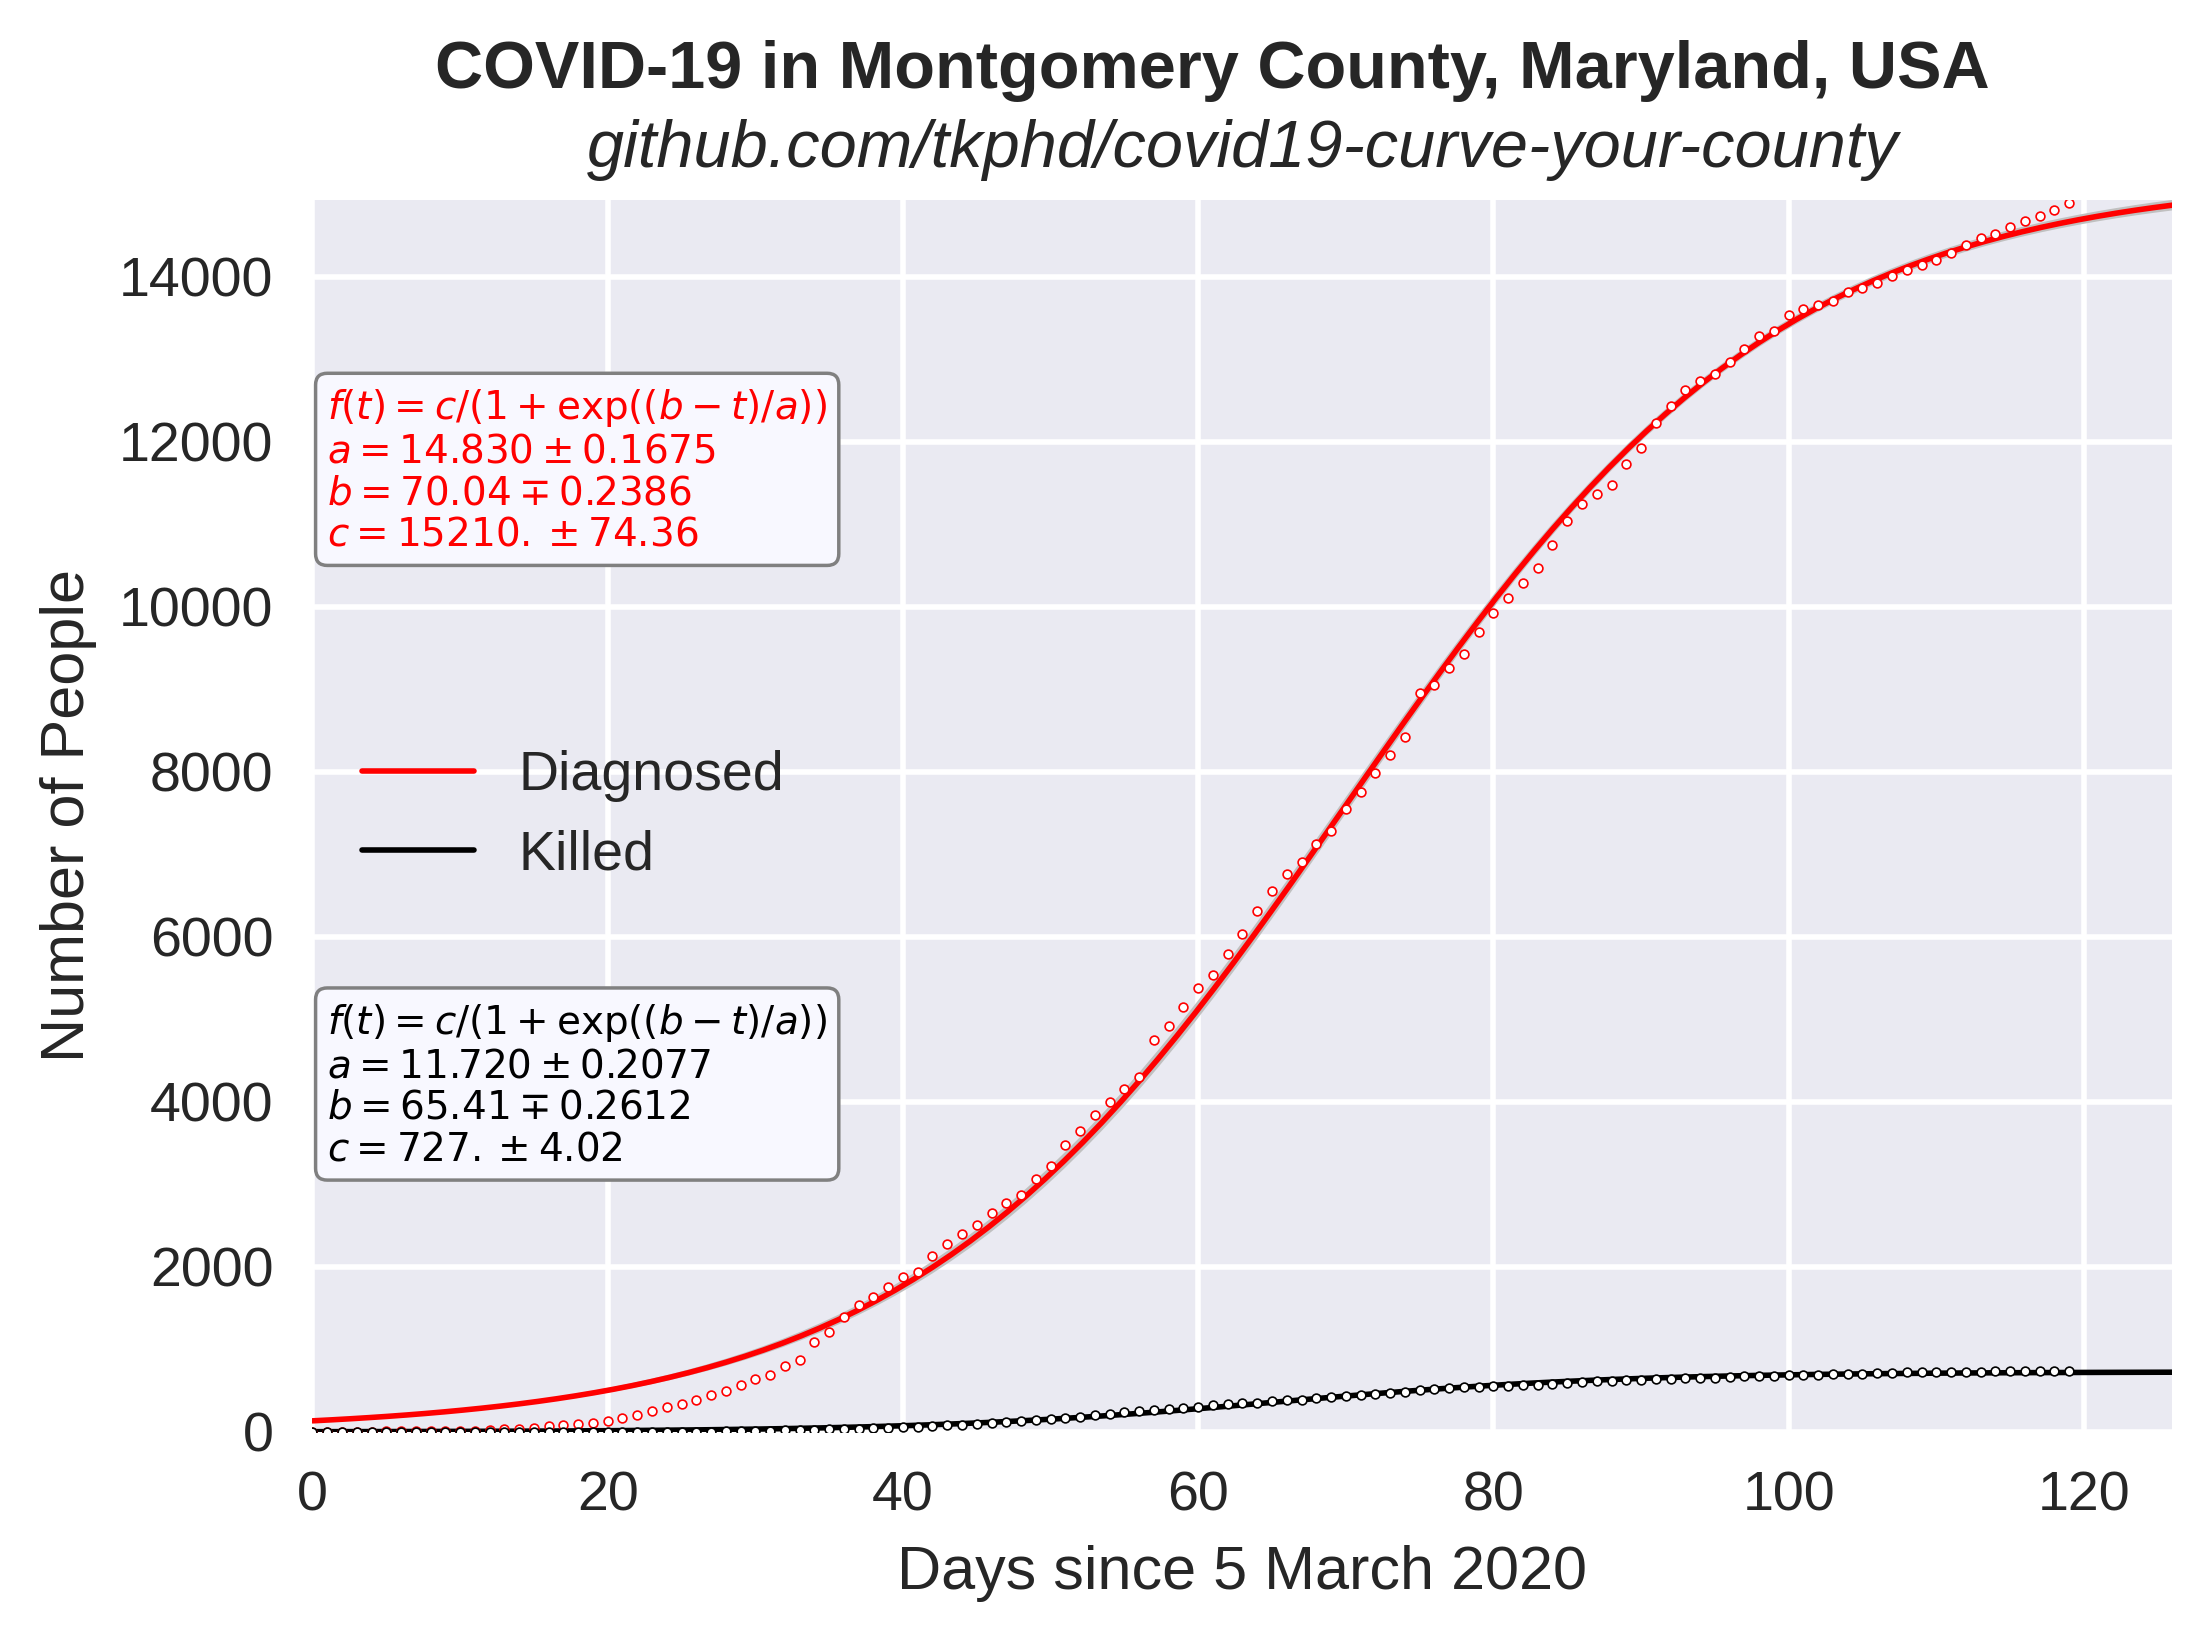
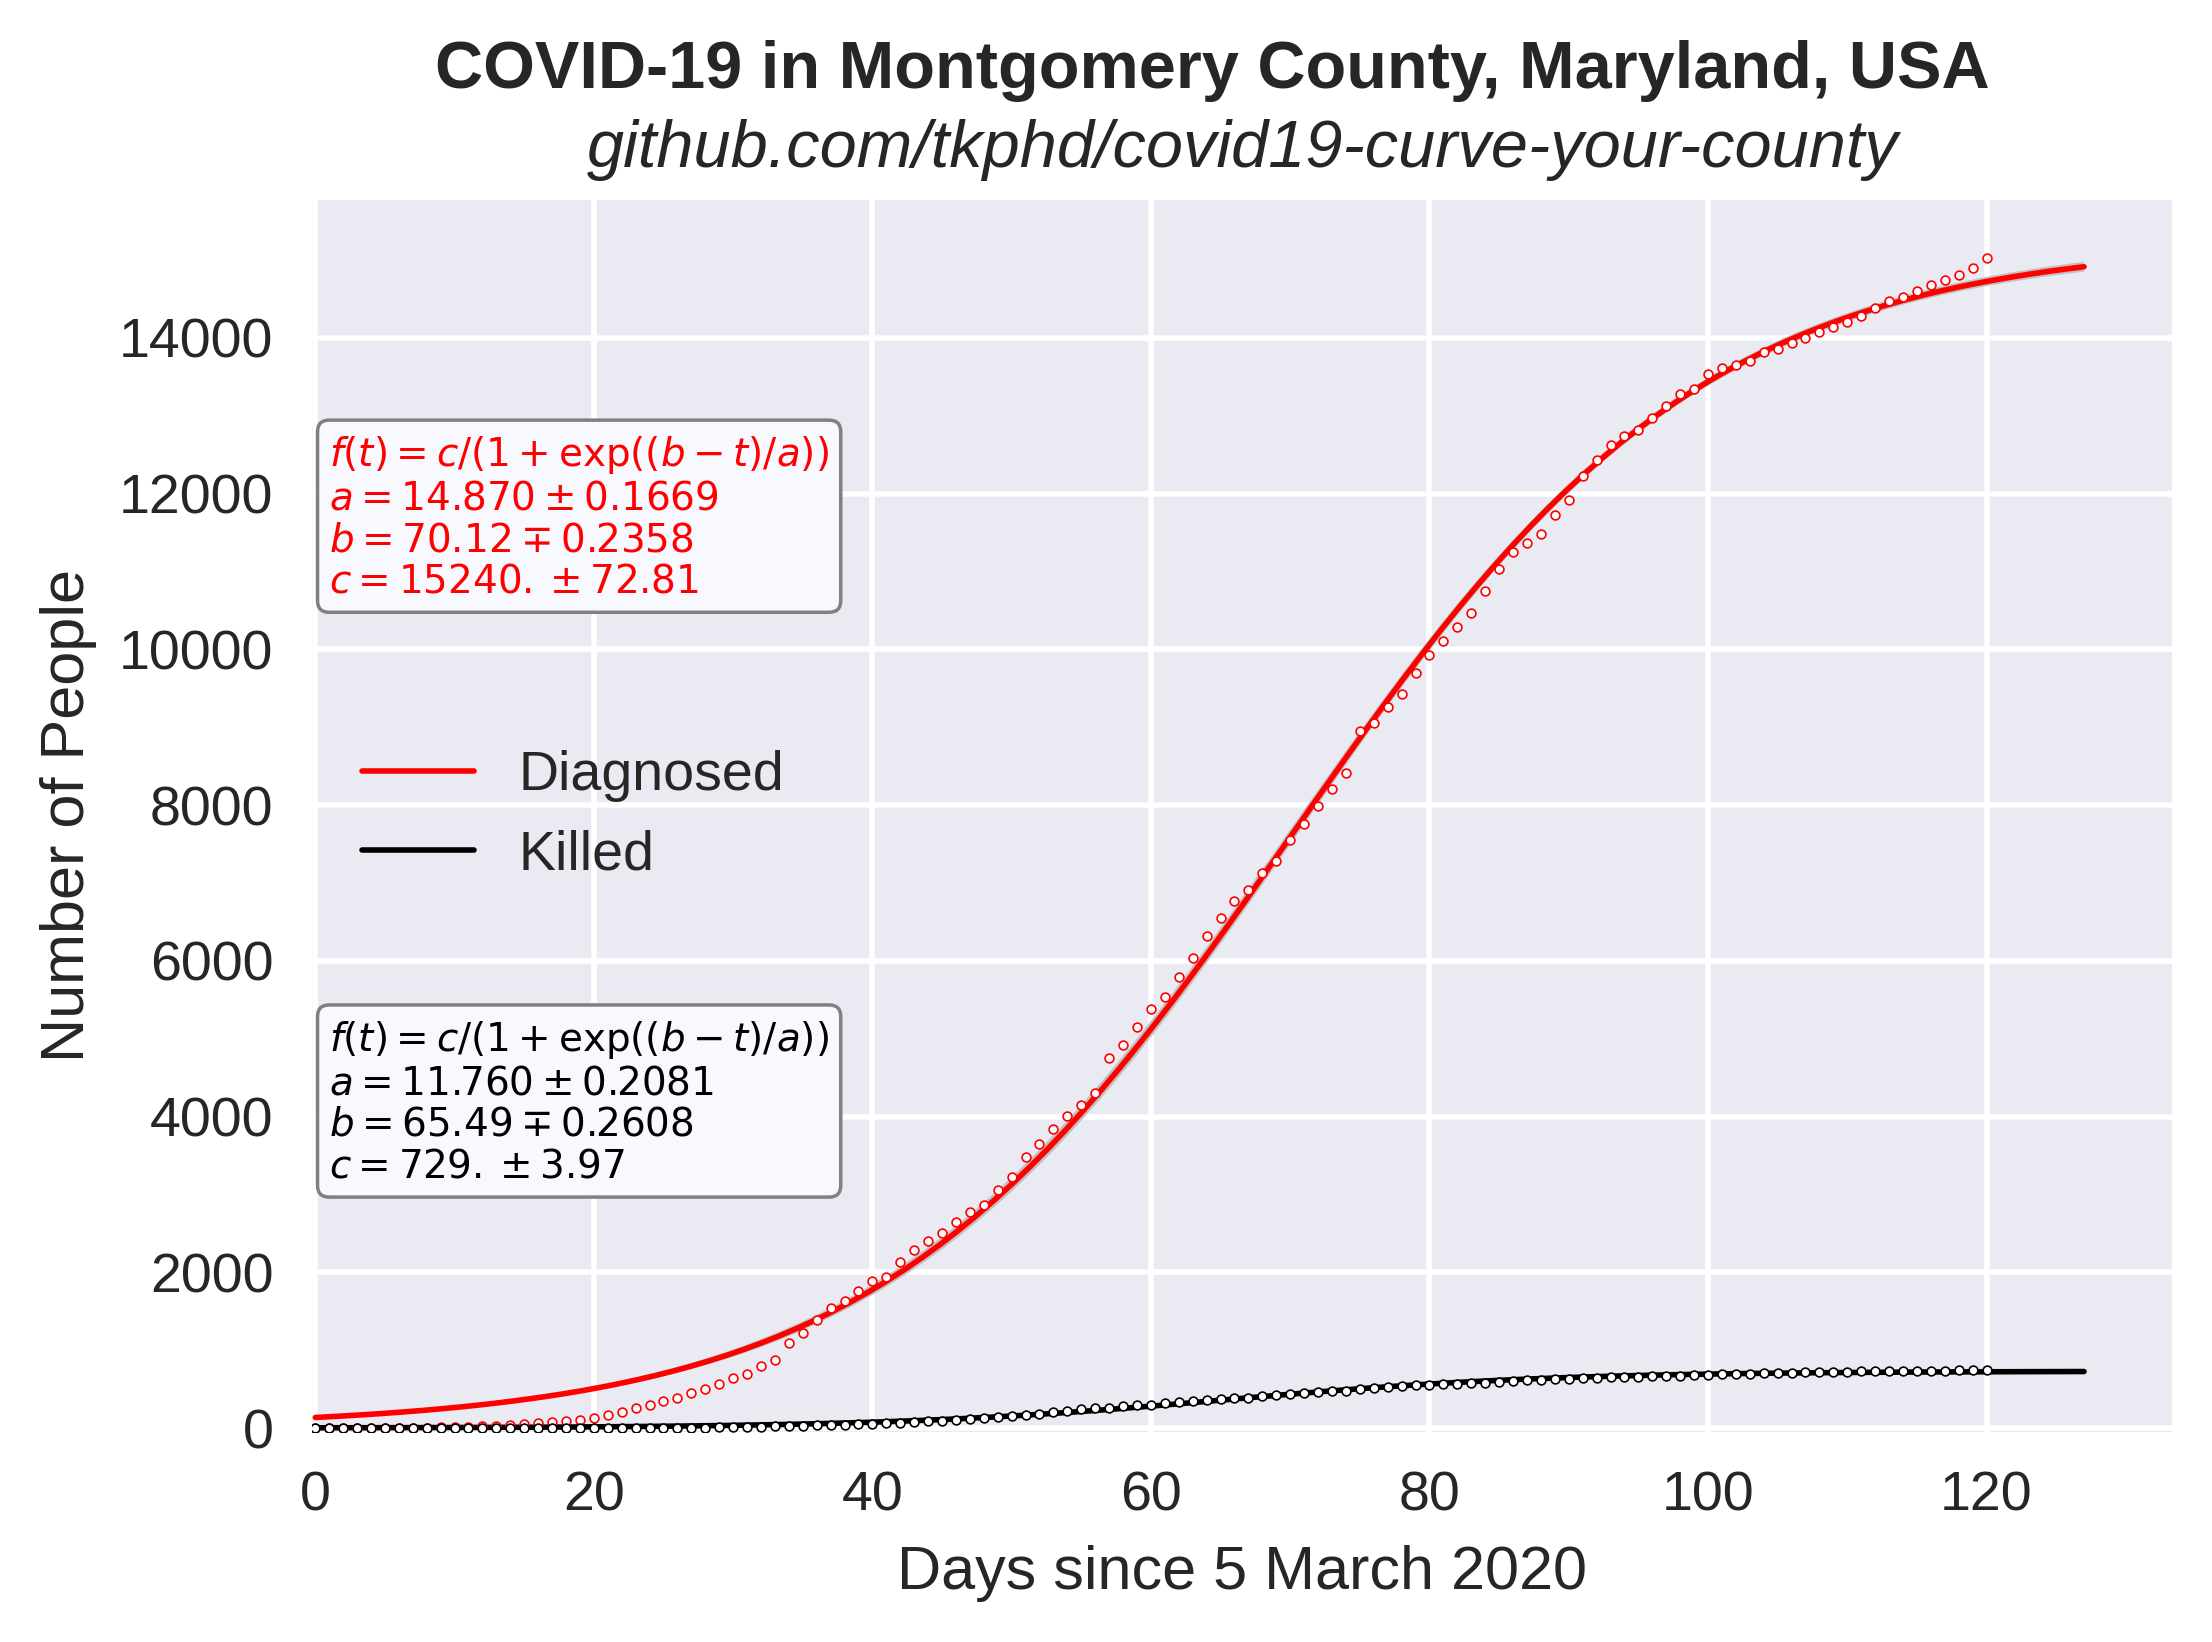
2020-07-03 update

diff --git a/exponential.py b/exponential.py
@@ -97,8 +97,6 @@ start = date(start.tm_year, start.tm_mon, start.tm_mday).toordinal()
 today = strptime(data["date"].iloc[-1], "%Y-%m-%d")
 today = date(today.tm_year, today.tm_mon, today.tm_mday).toordinal()
 
-t_max = 0
-y_max = 0
 y_off = 1 + 0.35  # offset for equation boxes
 
 for key in columns:
@@ -199,15 +197,13 @@ for key in columns:
         bbox=dict(boxstyle="round", ec="gray", fc="ghostwhite", linewidth=2.5 * dx),
     )
 
-    if t_hat[-1] > t_max:
-        t_max = t_hat[-1]
-    if upper[-1] > y_max:
-        y_max = upper[-1]
-
 # Plot Boundaries
 
-plt.xlim([0, t_max])
-plt.ylim([0, y_max])
+tmin, tmax = plt.xlim()
+plt.xlim([-0.2, tmax])
+
+ymin, ymax = plt.ylim()
+plt.ylim([-50, ymax])
 
 # Save figure
 
